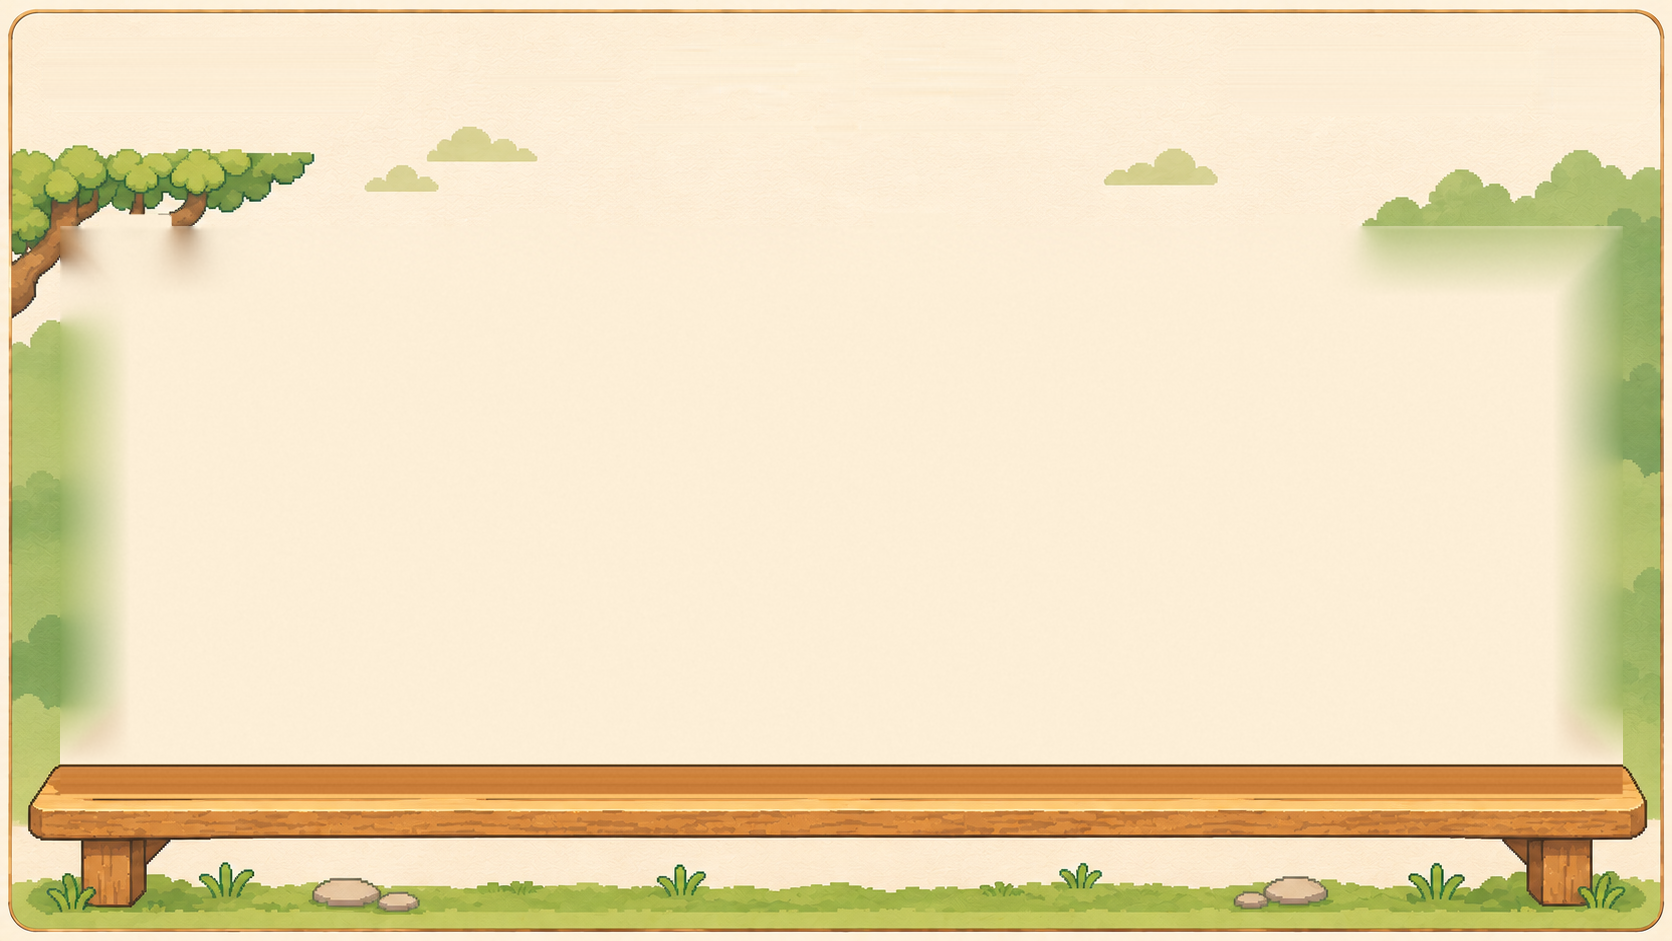
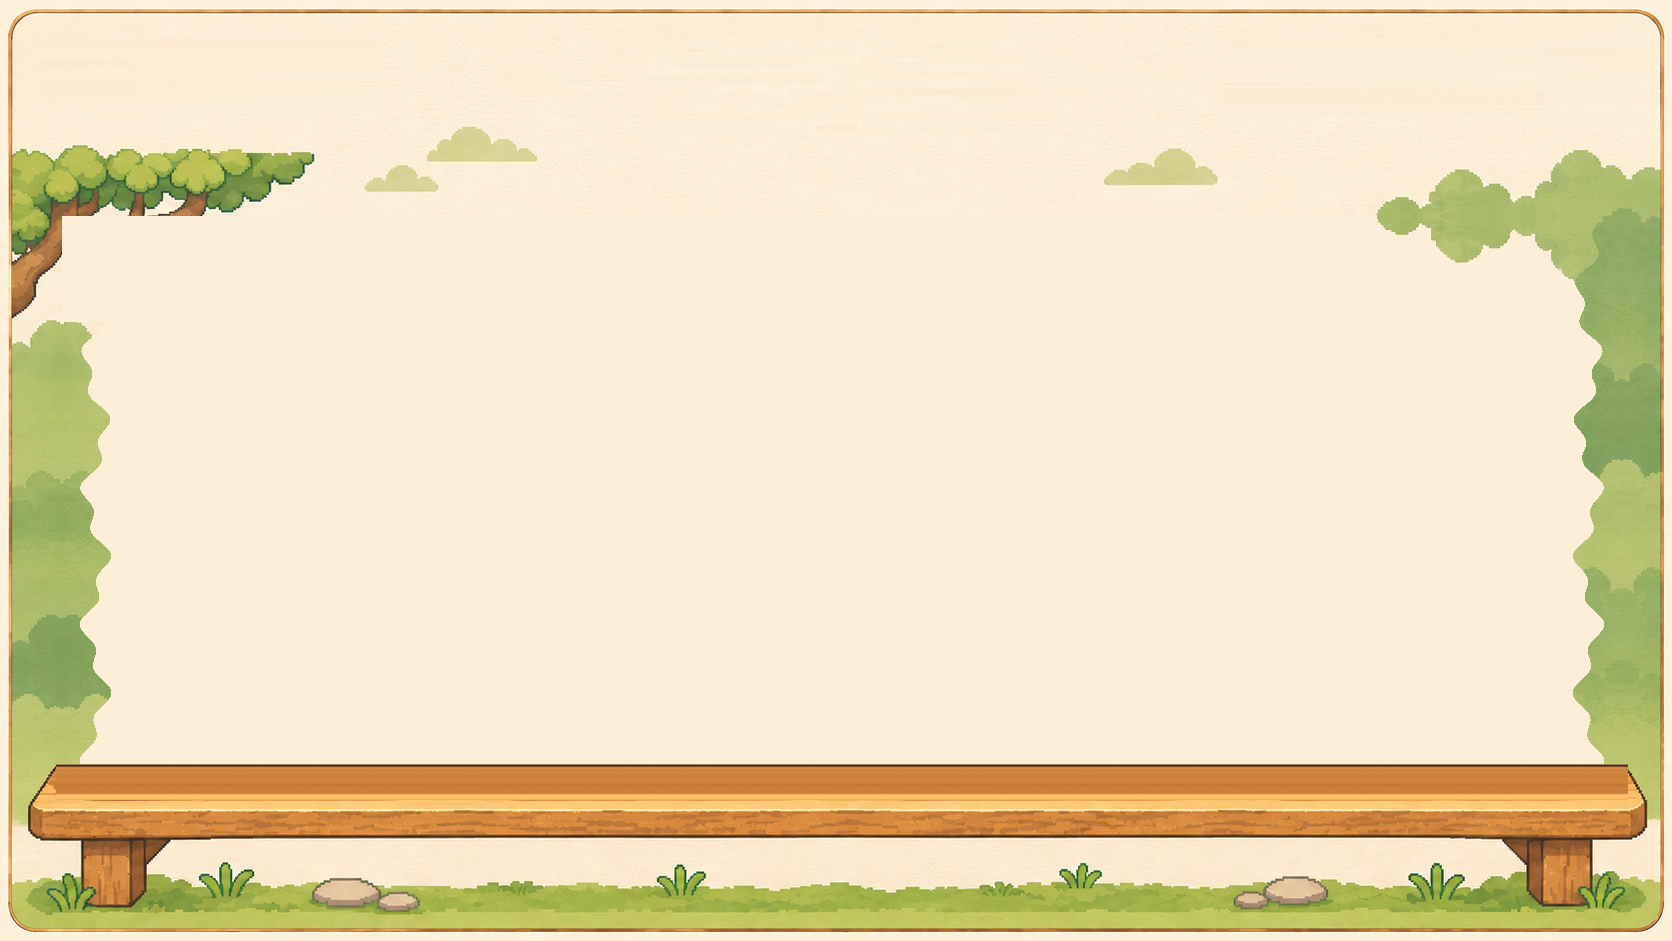
Story-collection backdrop from A's mockup scene
The story screens keep their layout, buttons and the house/sprite thumbnails;
only the backdrop changes to the mockup's own scene (frame, clouds, tree,
bushes, bench, grass). The hidden foliage is finished by mirroring the visible
part instead of the earlier blurred smear, and the 20:9 picture is widened in
the middle so the wooden frame stays at the screen edges. Same file name
(bg_common_paper_wide.jpg), so no code change; the village stories, character
screens and records share it.

Claude-Session: https://claude.ai/code/session_015FKkdqthELbMosGZwzsTMF

diff --git a/docs/art/ui-screens/scripts/build_paper2.py b/docs/art/ui-screens/scripts/build_paper2.py
@@ -1,0 +1,66 @@
+"""Story-collection background v2: the mockup's own scene (frame, clouds, trees, bushes, bench, grass) with
+the title, top widgets and cards removed. Hidden foliage is completed by mirroring the visible part (so it ends
+in a bumpy edge instead of a straight cut or a blur); the 20:9 version widens the picture in the middle so the
+wooden frame stays at the screen edges."""
+import cv2, numpy as np, sys, os
+sys.path.insert(0, '.')
+from lib import rowfill, feather, noise
+im = cv2.imread('src/stories.png'); H, W = im.shape[:2]
+CREAM = np.array([215, 239, 253], np.float32)        # BGR of the paper
+f = im.astype(np.float32)
+hsv = cv2.cvtColor(im, cv2.COLOR_BGR2HSV)
+def foliage(y, x):
+    b, g, r = im[y, x].astype(int)
+    return g > r - 5 and g > b + 25 and hsv[y, x, 1] > 50
+# 1) title + top widgets out (row fill), as before
+d = np.sqrt(((f - CREAM) ** 2).sum(2))
+m = np.zeros((H, W), np.uint8); hit = d > 30
+m[25:146, 488:1188] = hit[25:146, 488:1188]; m[38:118, 1538:1552] = hit[38:118, 1538:1552]
+m = cv2.dilate(m.astype(np.uint8) * 255, np.ones((9, 9), np.uint8)); m[127:, 430:520] = 0
+for b in [(47, 41, 371, 112), (1233, 41, 1526, 112), (1562, 34, 1637, 120)]:
+    cv2.rectangle(m, (b[0] - 4, b[1] - 4), (b[2] + 4, b[3] + 4), 255, -1)
+base = feather(im, rowfill(im, m, std=1.2), m, 5).astype(np.float32)
+# 2) card area -> paper
+X0, Y0, X1, Y1 = 62, 216, 1622, 764
+out = base.copy()
+out[Y0:Y1, X0:X1] = CREAM + noise(Y1 - Y0, X1 - X0, 1.4)
+# bench rows under the cards: each row's wood colour sampled in the gaps between the cards
+nz = noise(H, W, 2.0)
+for y in range(764, 800):
+    c = np.median(np.concatenate([f[y, g - 2:g + 3] for g in (449, 836, 1221)]), 0)
+    out[y, X0 - 6:X1 + 6] = c + nz[y, X0 - 6:X1 + 6]
+# 3) top foliage (tree crown left, bushes right): mirror the visible part below the cut row
+for x in range(X0, X1):
+    if not foliage(Y0 - 3, x): continue
+    top = Y0 - 3
+    while top > 0 and foliage(top - 1, x): top -= 1
+    depth = min(Y0 - top, 90)
+    for k in range(depth):
+        out[Y0 + k, x] = base[Y0 - 1 - k, x]
+# 4) side foliage: mirror columns inward with a bumpy edge
+yy = np.arange(H)
+for side in ('L', 'R'):
+    for y in range(Y0, Y1):
+        edge = X0 if side == 'L' else X1 - 1
+        if not foliage(y, edge - 3 if side == 'L' else edge + 3): continue
+        depth = int(34 + 10 * np.sin(y / 21.0) + 6 * np.sin(y / 7.3 + 1))
+        for k in range(depth):
+            if side == 'L': out[y, X0 + k] = base[y, X0 - 1 - k % (X0 - 12)]
+            else: out[y, X1 - 1 - k] = base[y, X1 + k % (W - 12 - X1)]
+out = np.clip(out, 0, 255).astype(np.uint8)
+cv2.imwrite('out/backgrounds/bg_common_paper.png', out)
+# 5) 20:9: insert a copy of the middle band so the frame stays at the edges
+TW = 2091; add = TW - W; mid = W // 2
+band = out[:, mid - add // 2: mid - add // 2 + add]
+wide = np.concatenate([out[:, :mid], band, out[:, mid:]], 1).astype(np.float32)
+for seam in (mid, mid + add):                      # 24 px crossfade at both seams
+    for i in range(-12, 12):
+        t = (i + 12) / 24
+        a = wide[:, seam + i].copy()
+        src = out[:, (mid - add // 2 + (i if seam == mid else add + i)) % W] if False else None
+    wide[:, mid - 12: mid + 12] = cv2.GaussianBlur(wide[:, mid - 14: mid + 14], (9, 1), 0)[:, 2:-2]
+    wide[:, mid + add - 12: mid + add + 12] = cv2.GaussianBlur(wide[:, mid + add - 14: mid + add + 14], (9, 1), 0)[:, 2:-2]
+wide = np.clip(wide, 0, 255).astype(np.uint8)
+cv2.imwrite('out/backgrounds/bg_common_paper_wide.png', wide)
+cv2.imwrite('out/backgrounds/bg_common_paper_wide.jpg', wide, [cv2.IMWRITE_JPEG_QUALITY, 92])
+cv2.imwrite('../z_cp2.png', cv2.resize(wide, (1045, 470)))

diff --git a/PROJECT_STATE.md b/PROJECT_STATE.md
@@ -801,3 +801,4 @@
 - A 확정 그림책 메뉴를 배경(bg_main_menu_wide.jpg, 버튼·글자 제거)과 글자 없는 버튼 2종으로 분리하고 HubActivity 버튼 좌표만 새 시안에 맞춤. 동작 변경 없음.
 - 오프닝/로그인 배경(bg_login_wide.jpg)의 시안 캐릭터 6명을 게임 스프라이트(4배)로 교체. 앱 내 캐릭터는 전부 sprite_<id>_* 사용(라일 원본, 나머지 눈 맞춤).
 - 빌드·기기 확인은 B. 자세히: docs/art/ui-screens/main-menu-final/MAIN_MENU_FINAL.md
+- 이야기 모음 배경(A 확정): 구성·버튼·집/캐릭터 그림은 지금 앱 그대로, 배경만 이야기 모음 시안의 장면으로. bg_common_paper_wide.jpg 교체 — 흐리게 번진 나무 대신 가려졌던 나무·덤불을 거울 복사로 자연스럽게 마무리, 20:9용은 가운데를 넓혀 나무 테두리가 화면 끝에 오게 함. 같은 배경을 쓰는 마을 이야기·캐릭터 화면·내 기록도 함께 바뀜. 코드 변경 없음.
